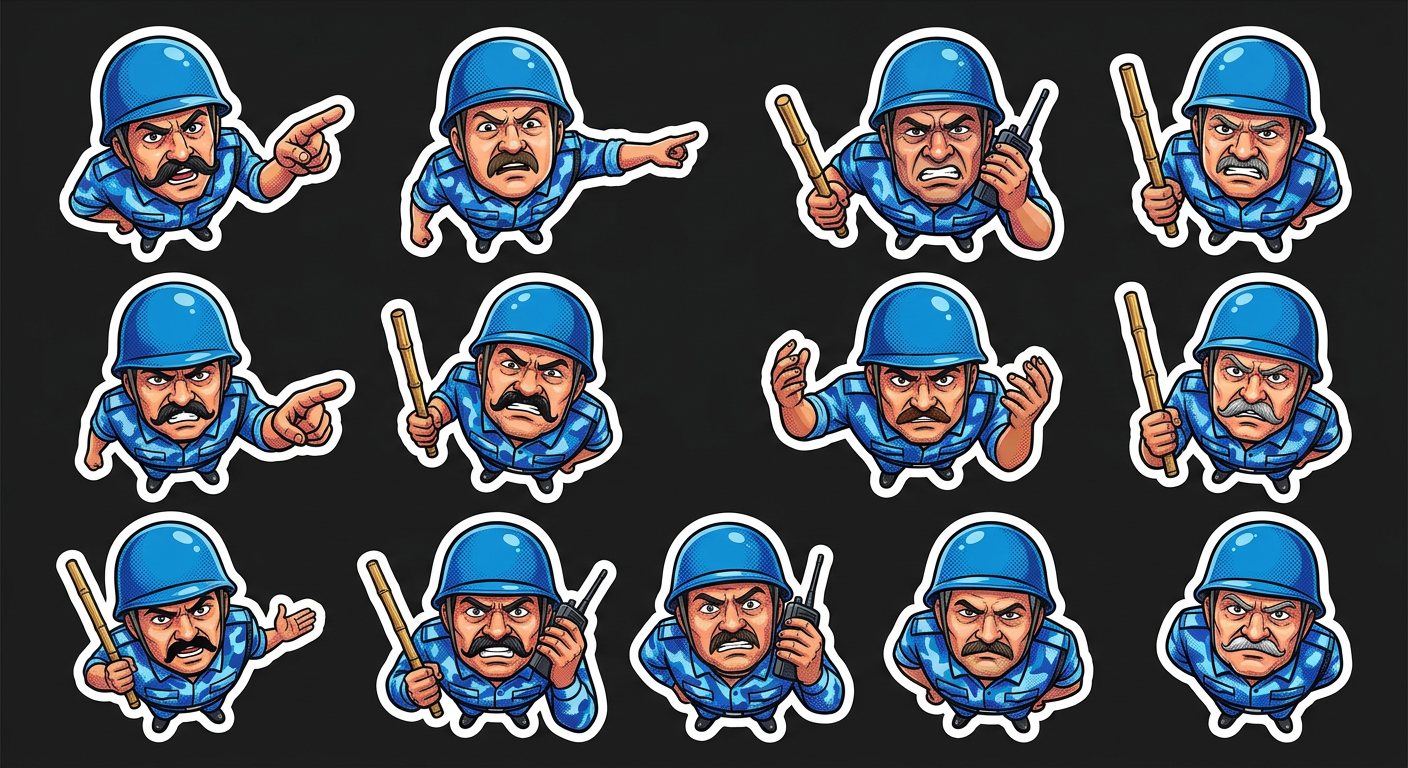
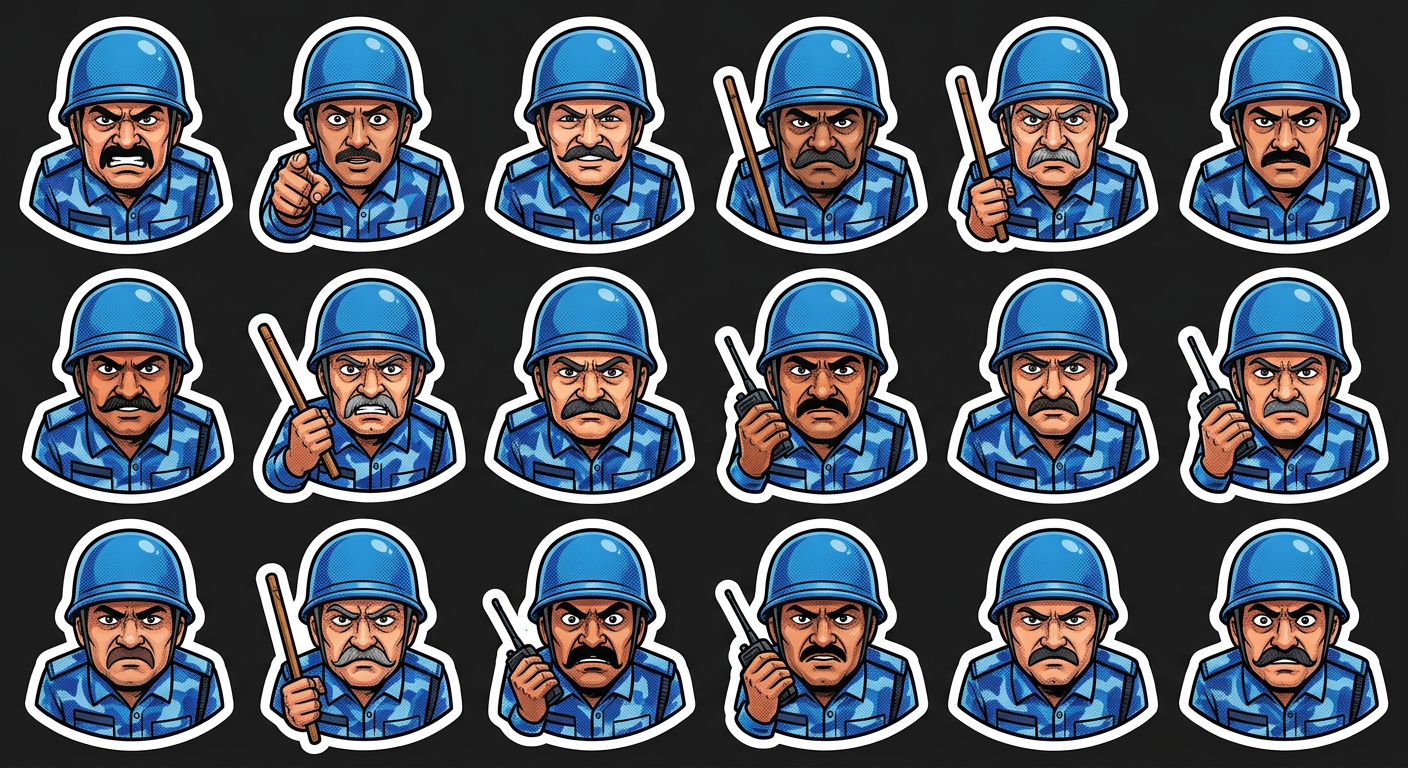
fix: enforce 3x4 grid and 12-sticker count for RAF sheet 1 (70 degree angle)

diff --git a/docs/superpowers/plans/2026-08-11-raf-stickers.md b/docs/superpowers/plans/2026-08-11-raf-stickers.md
@@ -15,20 +15,20 @@
 **Files:**
 - Create: `public/assets/stickers/raf-stickers-1.png`
 
-- [x] **Step 1: Invoke image generation for Sheet 1**
+- [x] **Step 1: Invoke image generation for Sheet 1 (Fix: Exactly 12 stickers in 3x4 grid)**
 
 Use the following prompt:
-"A high-quality sticker sheet containing **exactly 12 unique and diverse** caricatured Indian Rapid Action Force (RAF) male personnel in blue camouflage uniforms and blue helmets, arranged in a **strict 3x4 grid**. Every character is a different individual with unique faces, ages, and mustache styles. **Dark grey background (#1a1a1a).** Poses include pointing, holding lathis, and walkie-talkies. Expressions are varied **intense angry disgust**. **Extreme high angle drone shot looking down at the characters. Viewed from directly above at a 70-degree angle. Tops of blue helmets and shoulders are very prominent. Significant foreshortening of the faces as seen from above. Bird's eye view perspective.** Style: bold marker illustration, thick black outlines, color halftone shading. Each sticker has a thick white die-cut border. No overlap."
+"A high-quality sticker sheet containing **exactly 12 individual stickers**, arranged in a **strict uniform grid of 3 rows and 4 columns (3x4 grid layout)**. Each sticker features a unique and diverse caricatured Indian Rapid Action Force (RAF) male soldier in blue camouflage uniform and a blue helmet. Every character is a different individual with unique faces, ages, and mustache styles. **Dark grey background (#1a1a1a).** Poses include pointing, holding lathis, and walkie-talkies. Expressions are varied **intense angry disgust**. **Extreme high angle drone shot looking down at the characters. Viewed from directly above at a 70-degree angle. Tops of blue helmets and shoulders are very prominent. Significant foreshortening of the faces as seen from above. Bird's eye view perspective.** Style: bold marker illustration, thick black outlines, color halftone shading. Each sticker has a thick white die-cut border. **Clean separation between all 12 stickers with no overlap.**"
 
 Path: `public/assets/stickers/raf-stickers-1`
 
-- [x] **Step 2: Verify Sheet 1**
-Check for: 12 unique characters, blue camo/helmets, 70° angle, dark grey background, marker/halftone style, white borders.
+- [ ] **Step 2: Verify Sheet 1**
+Check for: **Exactly 12 stickers** arranged in a **3x4 grid**, blue camo/helmets, 70° angle, dark grey background, marker/halftone style, white borders.
 
-- [x] **Step 3: Commit Sheet 1**
+- [ ] **Step 3: Commit Sheet 1**
 ```bash
 git add public/assets/stickers/raf-stickers-1.png
-git commit -m "fix: steepen perspective for RAF sticker sheet 1 (70 degree drone angle)"
+git commit -m "fix: enforce 3x4 grid and 12-sticker count for RAF sheet 1 (70 degree angle)"
 ```
 
 ### Task 2: Generate RAF Sticker Sheet 2 (75° Angle)
